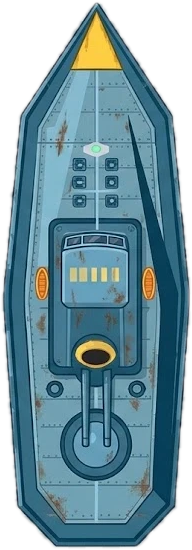
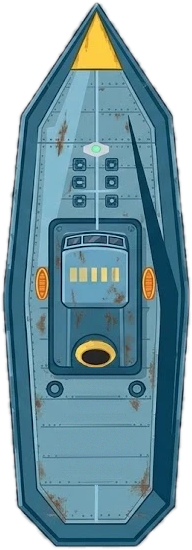
Combate naval: sin cañón central; la torreta de proa lanza los misiles y la de popa es la ametralladora; el casco sale sin la torreta pintada; marineros recuerdan los torpedos (R) (#127)
Claude-Session: https://claude.ai/code/session_01F8uvWJjBMGg7dS4bCsAoKM

Changed region(s): [[0.3125, 0.6491, 0.6875, 0.8964]]

diff --git a/finallegacy/naval_gun.py b/finallegacy/naval_gun.py
@@ -8,6 +8,7 @@ MG_RANGE = 380
 MG_RATE = 0.085
 MG_HEAT = 0.035
 MG_JAM = 2.6
+AFT = -36.0                    # torreta de popa (la ametralladora): distancia al centro del casco, hacia atrás
 
 
 class NavalGunMixin:
@@ -55,16 +56,20 @@ class NavalGunMixin:
                 mg['heat'] = 0.5
         tgt = self.ng_target() if mg['jam'] <= 0 else None
         mg['on'] = tgt is not None
+        ax_, ay_ = vec(p['h'], AFT)
+        tx0, ty0 = p['x'] + ax_, p['y'] + ay_
+        if tgt is None:                                   # sin blanco la torreta de popa vuelve a mirar al frente
+            mg['ang'] = (mg['ang'] + clamp(angle_diff(mg['ang'], p['h']), -240 * dt, 240 * dt)) % 360
         if tgt is not None:
-            want = bearing(tgt[2] - p['x'], tgt[3] - p['y'])
+            want = bearing(tgt[2] - tx0, tgt[3] - ty0)
             mg['ang'] = (mg['ang'] + clamp(angle_diff(mg['ang'], want), -520 * dt, 520 * dt)) % 360
             if abs(angle_diff(mg['ang'], want)) < 12 and mg['cd'] <= 0:
                 mg['cd'] = MG_RATE
                 mg['shots'] += 1
                 a = mg['ang'] + random.uniform(-3.0, 3.0)
-                ox, oy = vec(mg['ang'], 24)
+                ox, oy = vec(mg['ang'], 20)
                 vx, vy = vec(a, 700)
-                mg['bullets'].append(dict(x=p['x'] + ox, y=p['y'] + oy, vx=vx, vy=vy, life=0.56))
+                mg['bullets'].append(dict(x=tx0 + ox, y=ty0 + oy, vx=vx, vy=vy, life=0.56))
                 mg['flash'] = 0.05
                 mg['heat'] += MG_HEAT
                 if mg['shots'] % 3 == 0:
@@ -157,14 +162,12 @@ class NavalGunMixin:
         p = c['p']
         if p['sink'] is not None and p['sink'] > 0.3:
             return
-        ex, ey = vec(mg['ang'], 22)
-        bx, by = vec(mg['ang'], 6)
-        pygame.draw.circle(cv, (40, 46, 54), (int(p['x']), int(p['y'])), 6)
-        pygame.draw.line(cv, (24, 28, 32), (p['x'] + bx, p['y'] + by), (p['x'] + ex, p['y'] + ey), 4)
-        pygame.draw.circle(cv, (150, 160, 172), (int(p['x']), int(p['y'])), 4)
+        ax_, ay_ = vec(p['h'], AFT)
+        tx0, ty0 = p['x'] + ax_, p['y'] + ay_
+        self.blit_turret(cv, self.tur_p, tx0, ty0, mg['ang'], 255 if p['sink'] is None else 140)    # torreta de popa (la misma del casco)
         if mg['flash'] > 0:
-            fx_, fy_ = vec(mg['ang'], 26)
-            glow(cv, p['x'] + fx_, p['y'] + fy_, 18, (255, 220, 140), 0.9)
+            fx_, fy_ = vec(mg['ang'], 24)
+            glow(cv, tx0 + fx_, ty0 + fy_, 18, (255, 220, 140), 0.9)
         for b in mg['bullets']:
             pygame.draw.line(cv, (255, 240, 150), (b['x'], b['y']), (b['x'] - b['vx'] * 0.03, b['y'] - b['vy'] * 0.03), 2)
 

diff --git a/finallegacy/naval_mode.py b/finallegacy/naval_mode.py
@@ -78,10 +78,12 @@ class NavalMixin:
         self.ammo -= 1
         p['cool'] = 0.9 * self.up_reload()
         tx, ty = self.combat_aim()
-        self.launch_missile(p, bearing(tx - p['x'], ty - p['y']), 400, 'p')
+        fx_, fy_ = vec(p['h'], 124 * 0.23)                                  # torreta de proa
+        mx_, my_ = p['x'] + fx_, p['y'] + fy_
+        self.launch_missile(p, bearing(tx - mx_, ty - my_), 400, 'p', off=124 * 0.23)
         self.audio.play('launch', .8)
-        self.fx.add('glow', p['x'], p['y'], life=.2, r0=20, r1=44, col=(255, 220, 150))
-        c['flashes'].append([p['x'], p['y'], 120, (255, 210, 150), 1.0])
+        self.fx.add('glow', mx_, my_, life=.2, r0=20, r1=44, col=(255, 220, 150))
+        c['flashes'].append([mx_, my_, 120, (255, 210, 150), 1.0])
         self.shake = max(self.shake, 3)
 
     def combat_aim(self):

diff --git a/finallegacy/chatter.py b/finallegacy/chatter.py
@@ -26,6 +26,10 @@ MAR_COMBAT = (
     '¡El enemigo se está quedando sin paciencia... y sin casco!',
     'Si la cosa se pone fea, siempre queda la opción de huir (E). Nadie dirá nada.',
     'Los aviones enemigos no avisan: la cortina antiaérea es la tecla Z.',
+    'Recuerde los torpedos, capitán: tecla R. Salen por debajo del casco y alcanzan hasta a un submarino sumergido.',
+    '¿Un submarino? Torpedo (R). Los misiles no lo alcanzan sumergido.',
+    'Los cañones de popa disparan solos contra aviones y lanchas. Los de proa son suyos: clic o ESPACIO para misiles.',
+    'Los torpedos (R) cuestan 2 de munición, pero pegan fuerte. No los guarde para después.',
 )
 ART_COMBAT = (
     'Artillería lista. Dígame a quién saludamos.',

diff --git a/finallegacy/boarding_mode.py b/finallegacy/boarding_mode.py
@@ -193,6 +193,7 @@ class BoardMixin:
             draw_circ(cv, C[0], C[1], 120, (255, 80, 60), 110 * bo['hit'] / 0.35, 4)
         ang = bo['ang']
         self.blit_turret(cv, self.tur_p, TUR[0], TUR[1], bearing(self.aim[0] - TUR[0], self.aim[1] - TUR[1]))
+        self.blit_turret(cv, self.tur_p, C[0], C[1] + 36, bearing(self.aim[0] - C[0], self.aim[1] - C[1] - 36))        # torreta de popa
         if bo['flash'] > 0:
             glow(cv, TUR[0] + math.cos(ang) * 40, TUR[1] + math.sin(ang) * 40, 36, (255, 220, 140), 0.9)
         for s in bo['deck']:
